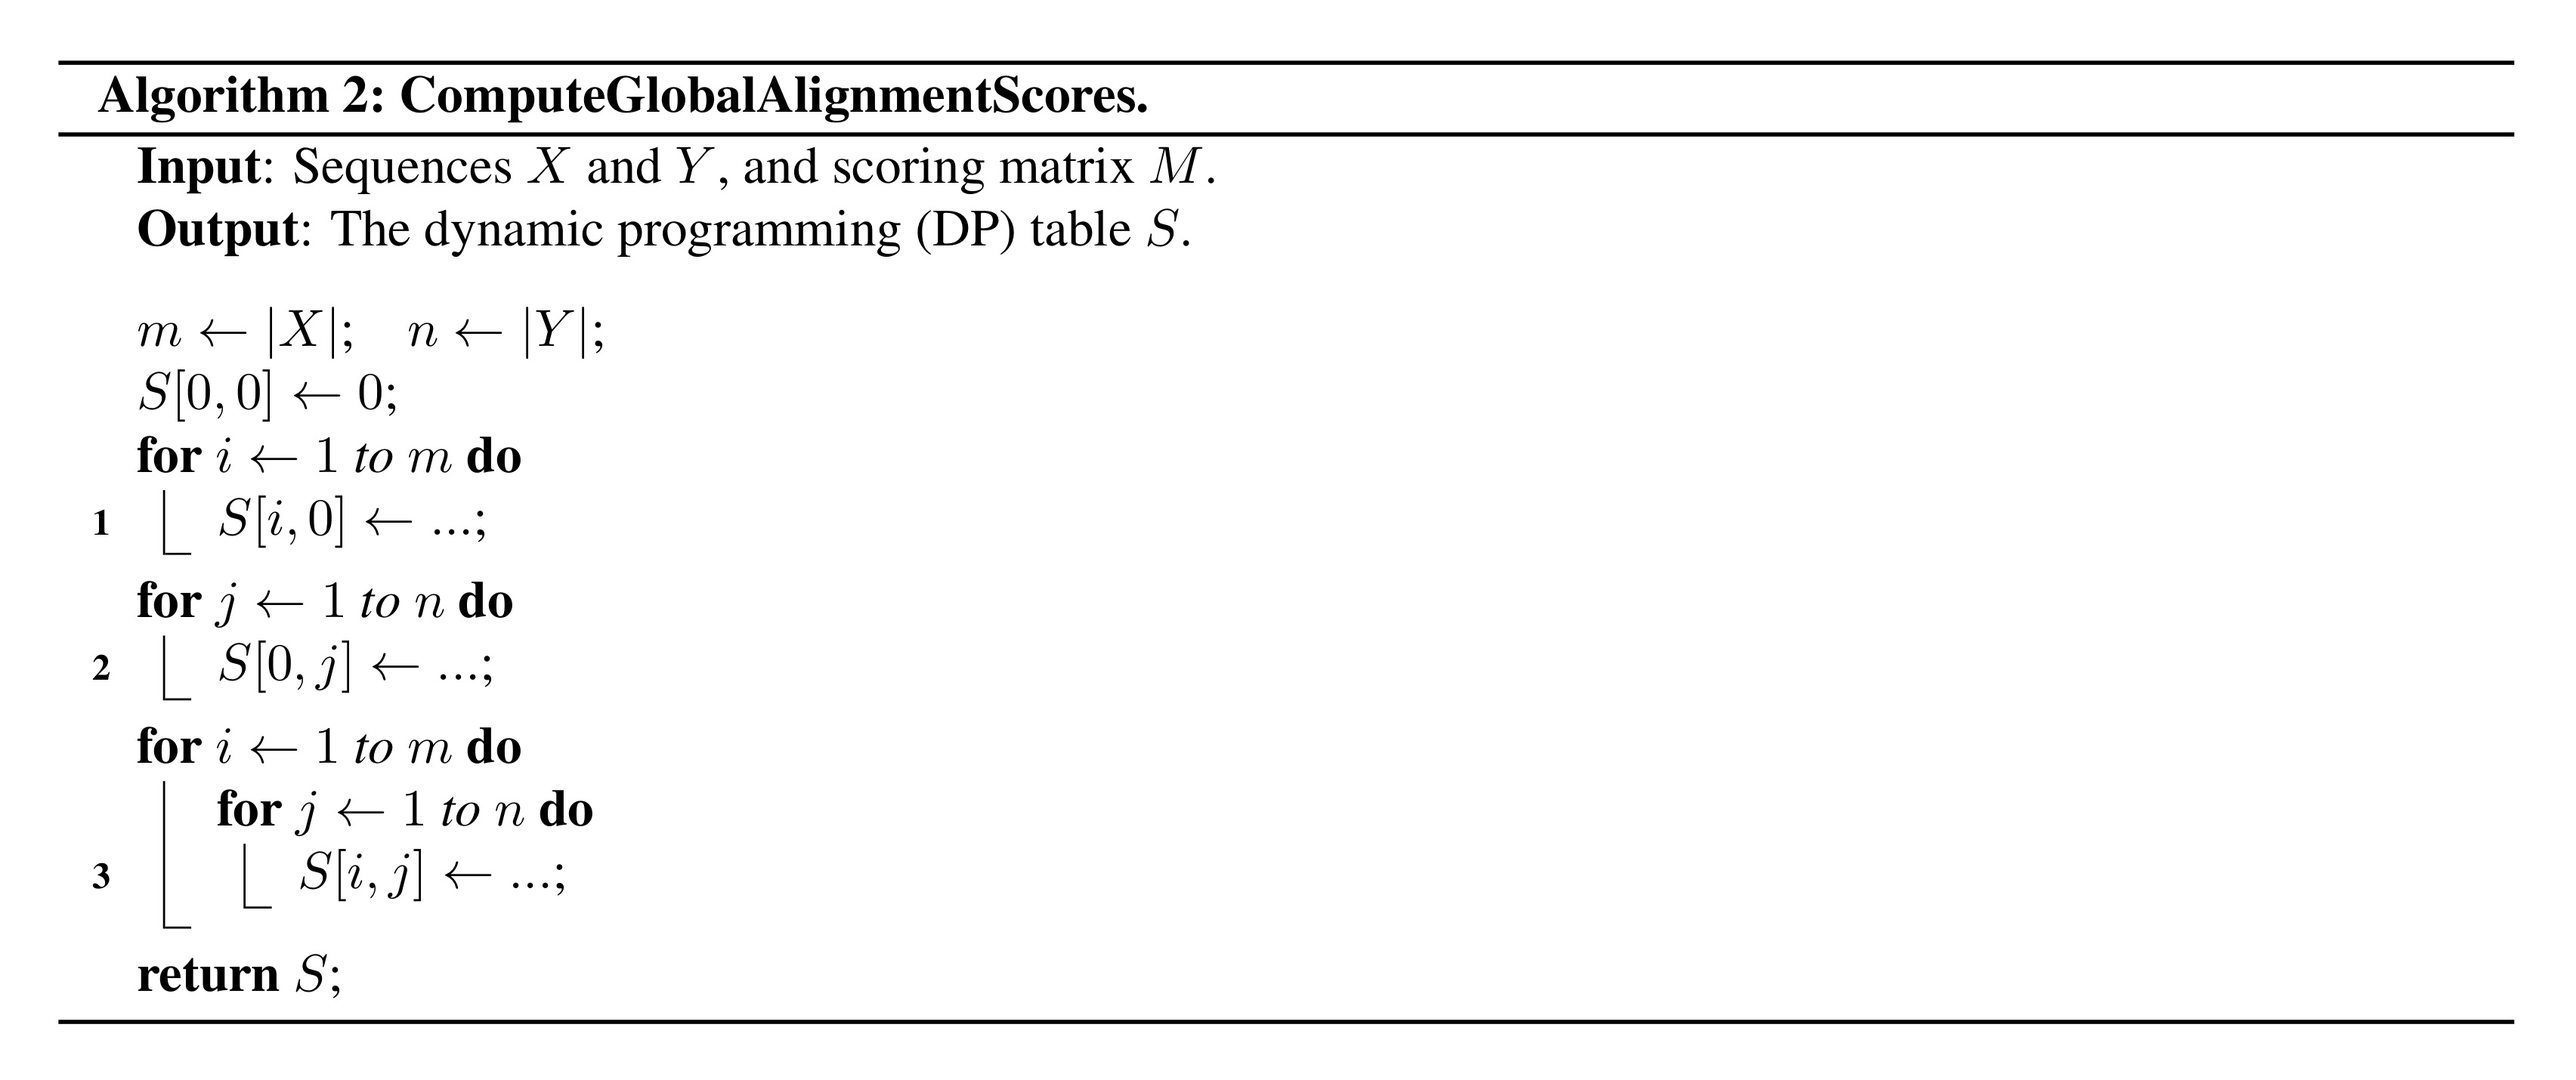
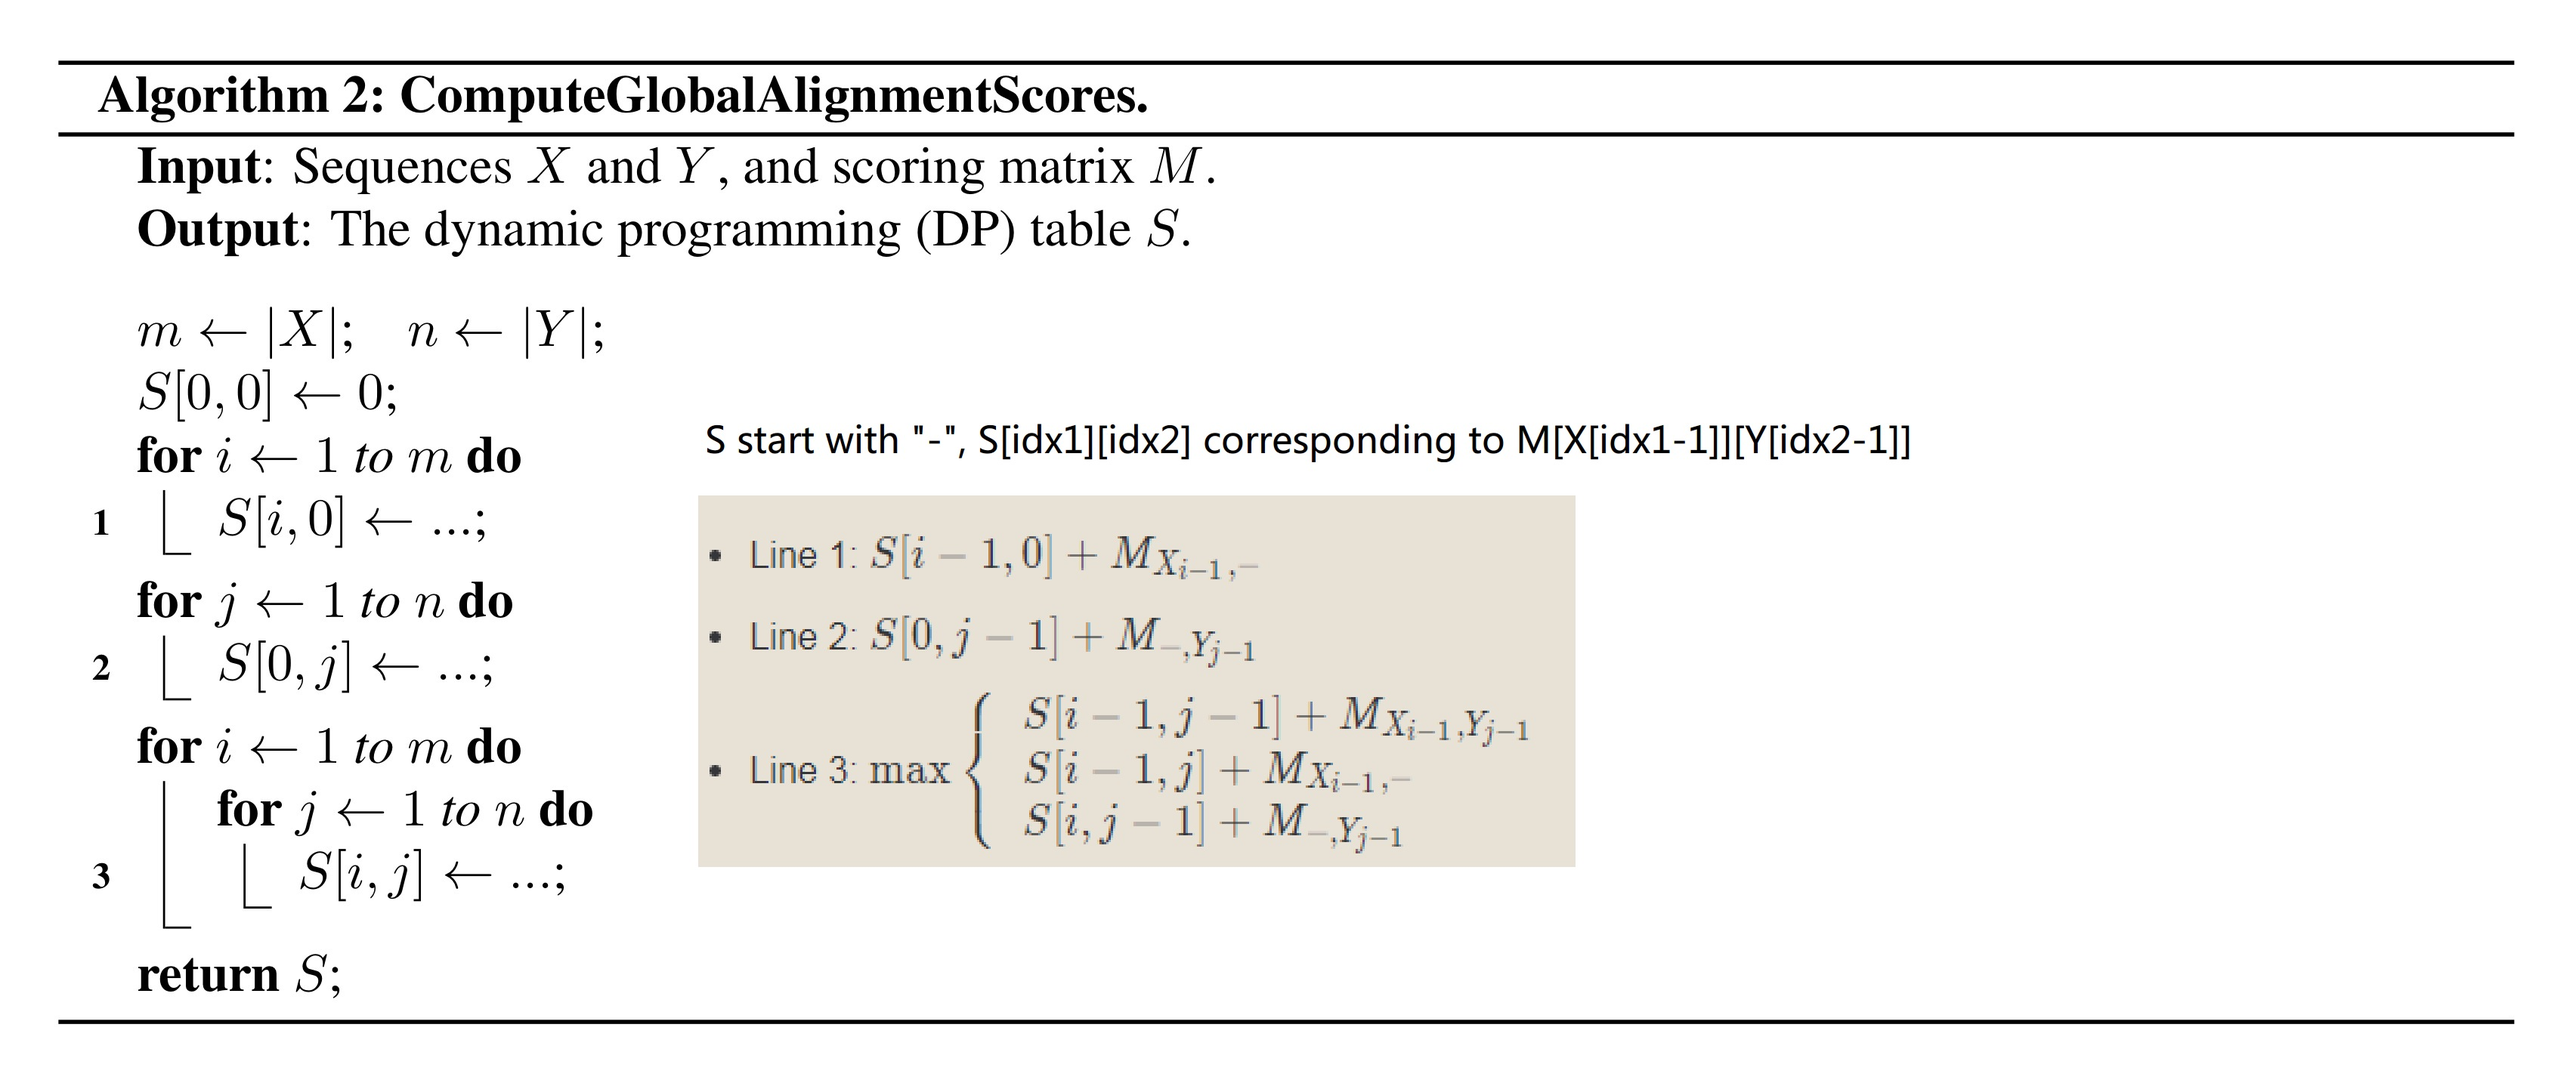
p3

Changed region(s): [[0.2488, 0.4615, 0.6219, 0.8], [0.2798, 0.4, 0.7463, 0.4308]]

diff --git a/algthk/week7,8 dynamic programming/ComputingAlignmentsOfSequences.py b/algthk/week7,8 dynamic programming/ComputingAlignmentsOfSequences.py
@@ -1,0 +1,66 @@
+# -*- coding: utf-8 -*-
+"""
+Created on Mon Aug 20 00:57:54 2018
+
+@author: Saki
+"""
+def build_scoring_matrix(alphabet, diag_score, off_diag_score, dash_score):
+    """
+    Input: alphabet(a set of characters); diag_score(score for remaining 
+    diagonal entries); off_diag_score(score for remaining off-diagonal entries);
+    dash_score(score for any entry indexed by dash(es)).
+    
+    Output:a dictionary of dictionaries,its entries are indexed by pairs of 
+    characters in alphabet + '-'.
+    """
+    scoring_matrix = {}
+    alphabet_copy = set(list(alphabet))
+    alphabet_copy.add('-')
+    for char1 in alphabet_copy:
+        scoring_matrix[char1] = {}
+        for char2 in alphabet_copy:
+            if char1 == '-' or char2 == '-':
+                scoring_matrix[char1][char2] = dash_score
+            elif char1 == char2:
+                scoring_matrix[char1][char2] = diag_score
+            else:
+                scoring_matrix[char1][char2] = off_diag_score
+    return scoring_matrix
+
+def compute_alignment_matrix(seq_x, seq_y, scoring_matrix, global_flag):
+    """
+    Computes alignment matrix using the method ComputeGlobalAlignmentScores
+    
+    Input:seq_x, seq_y are two sequences; scoring_matrix; global_flag
+    (global or local alignment)
+    
+    Output:An alignment matrix
+    """
+    alignment_matrix = [[0 for _ in range(len(seq_y)+1)] for _ in range(len(seq_x)+1)]
+    
+    for idx in range(1, len(seq_x) + 1):
+        # alignment_matrix start with "-".so alignment_matrix[idx] = seq_x[idx-1]
+        alignment_matrix[idx][0] = alignment_matrix[idx-1][0] + scoring_matrix[seq_x[idx-1]]["-"]
+        if not global_flag and alignment_matrix[idx][0] < 0:
+            alignment_matrix[idx][0] = 0
+    
+    for idx in range(1, len(seq_y) + 1):
+        alignment_matrix[0][idx] = alignment_matrix[0][idx-1] + scoring_matrix["-"][seq_y[idx-1]]
+        if not global_flag and alignment_matrix[0][idx] < 0:
+            alignment_matrix[0][idx] = 0        
+        
+    for idx1 in range(1, len(seq_x) + 1):   
+        for idx2 in range(1, len(seq_y) + 1):
+            alignment_matrix[idx1][idx2] = max(alignment_matrix[idx1-1][idx2-1] + scoring_matrix[seq_x[idx1-1]][seq_y[idx2-1]],
+                                              alignment_matrix[idx1-1][idx2] + scoring_matrix[seq_x[idx1-1]]["-"], 
+                                              alignment_matrix[idx1][idx2-1] + scoring_matrix["-"][seq_y[idx2-1]])
+            if not global_flag and alignment_matrix[idx1][idx2] < 0:
+                alignment_matrix[idx1][idx2] = 0 
+    
+    return alignment_matrix
+
+def compute_global_alignment():
+    pass
+
+def compute_local_alignment():
+    pass
